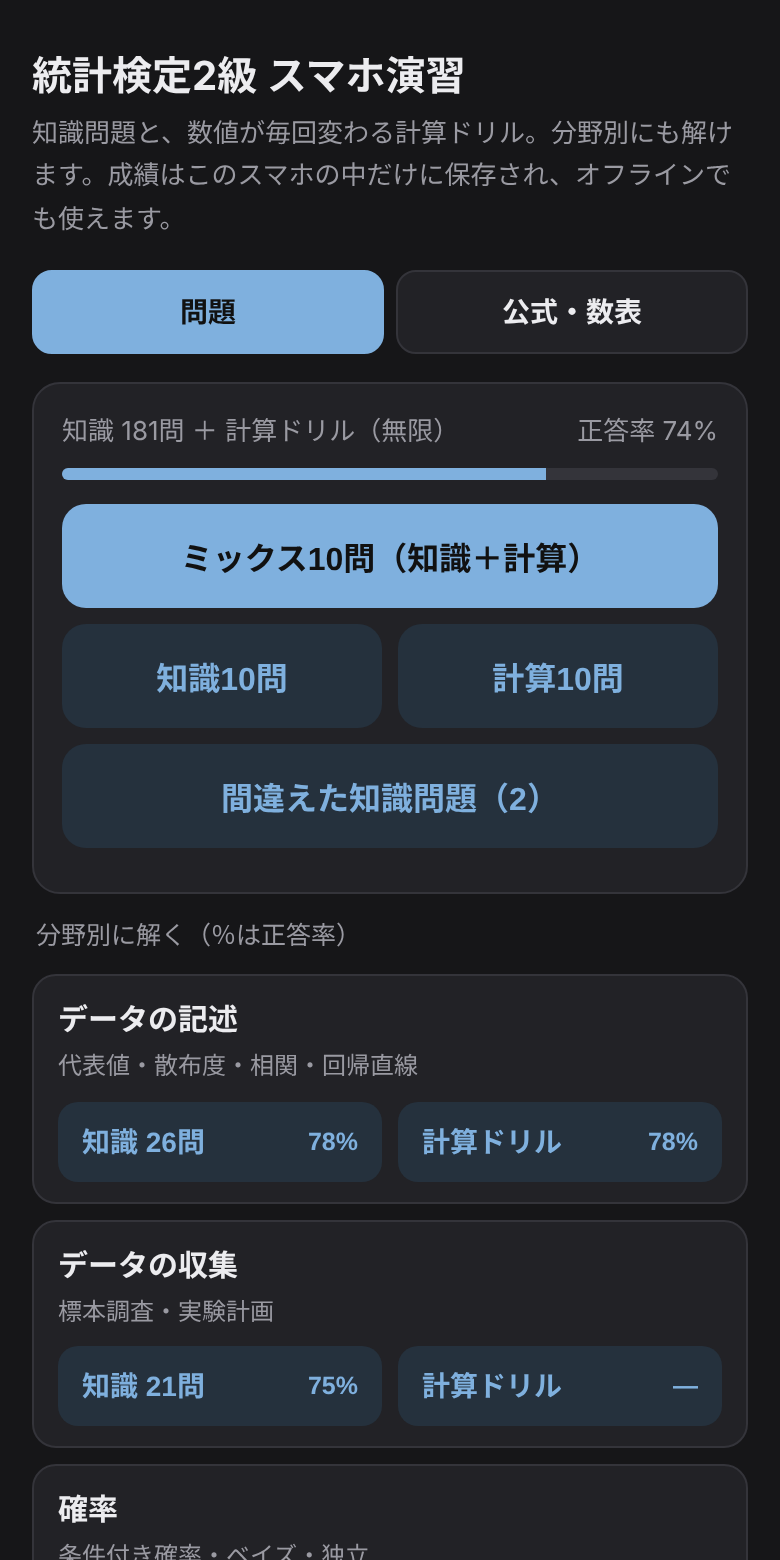
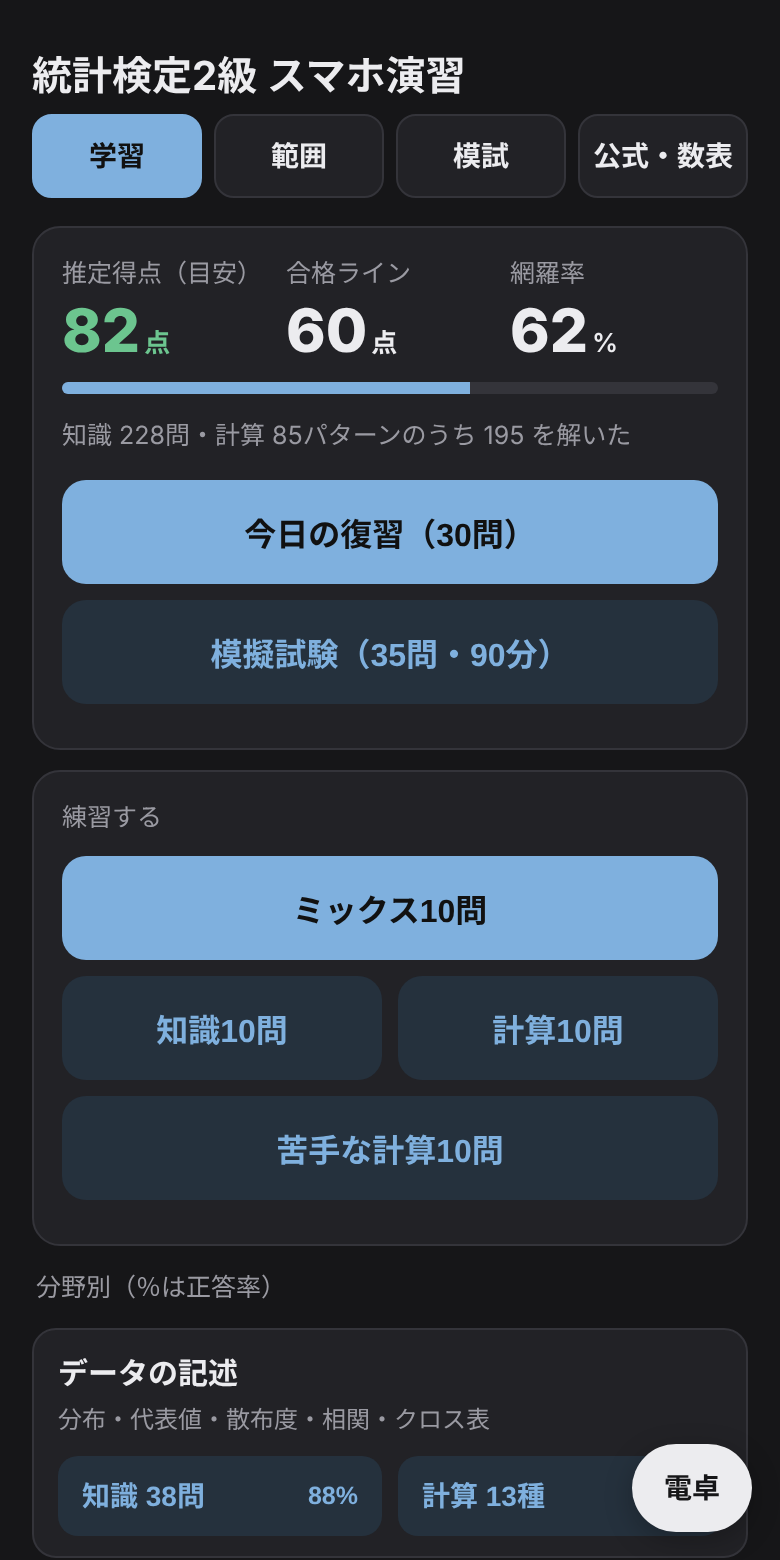
テストと README を新しい機能に合わせる

diff --git a/tests/smoke.py b/tests/smoke.py
@@ -1,4 +1,4 @@
-"""スマホ幅のブラウザーで開き、解答・オフライン起動まで通るか確かめる。
+"""スマホ幅のブラウザーで開き、練習・範囲チェック・模擬試験・数表・電卓・オフライン起動まで通るか確かめる。
 
 使い方: pip install playwright && playwright install chromium
         python3 tests/smoke.py            （CHROME_PATH で使うブラウザーを指定できる）
@@ -29,36 +29,72 @@ with sync_playwright() as p:
     page.on("pageerror", lambda e: errors.append(str(e)))
 
     page.goto(url)
-    check(page.locator(".fbox").count() == 9, "ホームに 9 分野が並ぶ")
+    check(page.locator(".fbox").count() == 9, "学習ホームに 9 分野が並ぶ")
     page.evaluate("navigator.serviceWorker.ready")
     time.sleep(1)
 
     page.click("text=知識10問")
-    page.click(".choice >> nth=0")
-    check(page.locator(".exp").count() == 1, "知識問題に答えると解説が出る")
+    page.click("#quiz .choice >> nth=0")
+    check(page.locator("#quiz .exp").count() == 1, "知識問題に答えると解説が出る")
     for _ in range(9):
-        page.click("#nx"); page.click(".choice >> nth=0")
+        page.click("#nx"); page.click("#quiz .choice >> nth=0")
     page.click("#nx")
-    check(page.locator(".score").inner_text().endswith("/ 10"), "10 問解くと結果が出る")
+    check(page.locator("#quiz .score").inner_text().endswith("/ 10"), "10 問解くと結果が出る")
+    page.click("#quiz >> text=戻る")
 
-    page.click("text=ホームへ")
-    page.click(".fbox >> nth=6 >> text=計算ドリル")
+    page.click(".fbox >> nth=6 >> .fbtn >> nth=1")
     check("仮説検定" in page.locator("#quiz .meta").inner_text(), "分野別の計算ドリルが開く")
-    page.click(".choice >> nth=1")
-    check(page.locator(".choice.ok").count() == 1, "計算ドリルで正解の選択肢が示される")
+    page.click("#quiz .choice >> nth=1")
+    check(page.locator("#quiz .choice.ok").count() == 1, "計算ドリルで正解の選択肢が示される")
 
-    page.click("text=公式・数表")
-    check("t<sub>0.025</sub>" in page.inner_html("#formula"), "公式・数表が出る")
+    page.click(".tab[data-v=topics]")
+    n_topics = page.locator(".trow").count()
+    check(n_topics == page.evaluate("TOPICS.length"), f"範囲チェックに全項目（{n_topics}）が並ぶ")
+    page.click(".trow >> nth=5")
+    check(page.locator("#topic h3", has_text="要点").count() == 1, "項目を開くと要点が出る")
+    page.click("#topic >> text=この項目を10問")
+    page.click("#quiz .choice >> nth=0")
+    check(page.locator("#quiz .exp").count() == 1, "項目別の練習で解ける")
 
+    page.click(".tab[data-v=mockhome]")
+    page.click("text=模擬試験を始める")
+    check(page.locator(".mhead").inner_text().startswith("模擬試験 1/35"), "模擬試験が 35 問で始まる")
+    check(page.locator("#mock .exp").count() == 0, "模擬試験の途中は解説を出さない")
+    for i in range(35):
+        page.click("#mock .choice >> nth=0")
+        if i < 34: page.click("text=次 →")
+    page.reload()
+    page.click(".tab[data-v=mockhome]")
+    check(page.locator("text=続きから").count() == 1, "閉じても模擬試験の続きから再開できる")
+    page.click("text=続きから")
+    page.click("text=問題の一覧・提出")
+    page.click("#msub"); page.click("#msub")
+    check(page.locator("#mock .score").count() == 1 and page.locator("details.rev").count() == 35, "提出すると得点と 35 問の見直しが出る")
+    page.click("text=模試のページへ")
+    check(page.locator(".trend i").count() == 1, "模擬試験の記録が残る")
+
+    page.click(".tab[data-v=formula]")
+    for i, name in enumerate(["正規", "t", "χ²", "F"]):
+        page.click(f".subtabs button >> nth={i+1}")
+        check(page.locator("#formula .tblwrap").count() >= 1, f"{name} 分布表が出る")
+
+    page.click(".fab")
+    for k in ["√", "2", "×", "(", "3", "+", "4", ")", "x²", "="]:
+        page.click(f'#calc [data-k="{k}"]')
+    check(page.locator("#cres").inner_text() == "= 69.29646456", "電卓で √2×(3+4)² が計算できる")
+    page.click("#calc >> text=閉じる")
+
+    page.click(".tab[data-v=home]")
     saved = page.evaluate("Object.keys(JSON.parse(localStorage.getItem('stat2_v1')).st).length")
     check(saved > 0, "成績が端末に保存される")
+    check("今日の復習（0問）" not in page.inner_text("#home"), "間違えた問題が今日の復習に入る")
 
     ctx.set_offline(True)
     server.shutdown()
     page.reload()
     check(page.locator(".fbox").count() == 9, "オフラインでも開ける")
     page.click("text=計算10問")
-    check(page.locator(".qtext").count() == 1, "オフラインでも計算ドリルが出る")
+    check(page.locator("#quiz .qtext").count() == 1, "オフラインでも計算ドリルが出る")
 
     check(not errors, "スクリプトのエラーがない" + (f": {errors}" if errors else ""))
     browser.close()

diff --git a/README.md b/README.md
@@ -2,64 +2,78 @@
 
 [![CI](https://github.com/haru-ki417/stat2-app/actions/workflows/ci.yml/badge.svg)](https://github.com/haru-ki417/stat2-app/actions/workflows/ci.yml)
 
-**統計検定2級の対策を、スマホだけで。知識問題 181 問と、数値が毎回変わる計算ドリル 55 パターンを、分野別に解けるオフライン対応の Web アプリ（PWA）。**
-ホーム画面に追加すればアプリとして起動し、電波のない場所でも使えます。成績はスマホの中だけに保存され、外には送りません。
+**統計検定2級の出題範囲を、スマホ1台で最後まで。公式の出題範囲表の 31 項目すべてに、知識問題 228 問と数値が毎回変わる計算ドリル 85 パターンをひも付け、本番と同じ 35問・90分の模擬試験、間違えた問題の復習、要点ノート、電卓、数表までそろえたオフライン対応の Web アプリ（PWA）。**
 
 [**アプリを開く**](https://haru-ki417.github.io/stat2-app/) — iPhone は Safari の共有ボタン →「ホーム画面に追加」で、アプリとして使えます。
 
 <p>
-<img src="docs/images/home-light.png" width="24%" alt="ホーム：分野ごとの正答率">
-<img src="docs/images/knowledge.png" width="24%" alt="知識問題：答えるとすぐ解説">
-<img src="docs/images/drill.png" width="24%" alt="計算ドリル：数値は毎回変わる">
-<img src="docs/images/formula.png" width="24%" alt="公式・数表">
+<img src="docs/images/home-light.png" width="24%" alt="学習：推定得点・網羅率・今日の復習">
+<img src="docs/images/topics.png" width="24%" alt="範囲チェック：項目ごとの進み具合">
+<img src="docs/images/mock.png" width="24%" alt="模擬試験：35問・90分">
+<img src="docs/images/mock-result.png" width="24%" alt="模擬試験の結果と分野別の正解数">
 </p>
 
-左から、ホーム（分野ごとの正答率）・知識問題の解説・計算ドリル・公式と数表。
+左から、学習（推定得点・網羅率・今日の復習）・範囲チェック・模擬試験・模擬試験の結果。
 
-> 個人の学習用に作ったアプリです。問題はすべてオリジナルで、日本統計学会・統計質保証推進協会とは関係ありません。本番の形式（グラフや出力表を読む長い設問）の練習には、公式問題集と組み合わせて使ってください。
+> 個人の学習用に作ったアプリです。問題はすべてオリジナルで、日本統計学会・統計質保証推進協会とは関係ありません。合格を保証するものではないので、本番の過去問（公式問題集）と組み合わせて使ってください。
 
 ## できること
 
 | | |
 |---|---|
-| **知識問題** | 181 問。用語・解釈・使い分け（p 値の意味、抽出法、過誤と検出力、回帰出力の読み方など）。答えるとすぐ解説が出る |
-| **計算ドリル** | 55 パターン。数値を毎回ランダムに変えて出題するので、何度でも解ける。答えはアプリが計算する |
-| **分野別・ミックス** | 9 分野それぞれで「知識」「計算」を選べる。全体からのミックス 10 問、知識だけ、計算だけも |
-| **復習** | 間違えた知識問題を自動で記録し、正解するまで「間違えた問題」に残す |
-| **成績** | 分野ごと・知識と計算ごとの正答率をホームに表示 |
-| **公式・数表** | 主な分布の期待値と分散、推定・検定の公式、標準正規分布・t 分布の値、e⁻ˣ の表 |
-| **オフライン** | 一度開けば、機内モードでも起動して解ける |
-| **ダークモード** | スマホの設定に合わせて切り替わる |
+| **出題範囲チェック** | 公式の出題範囲表の小項目を 31 項目に分け、項目ごとに問題数・解いた数・正答率と「未着手／要復習／途中／仕上がり」を表示。抜けている項目がひと目で分かる |
+| **要点ノート** | 項目ごとに押さえる公式と考え方を数行にまとめ、そのまま「この項目を10問」で練習できる |
+| **模擬試験** | 本番と同じ 35問・90分。分野の配分は本番の傾向に合わせ、知識と計算（グラフ・ソフトの出力の読み取りを含む）を混ぜる。解答中は正誤を出さず、見直し印・問題一覧・残り時間つき。閉じても続きから再開でき、終わると得点・合否ライン・分野別の正解数・全問の解説を表示 |
+| **今日の復習** | 間違えた知識問題は当日に、正解した問題は 1・3・7・14・30 日後にもう一度出す（間隔反復） |
+| **推定得点** | 分野ごとの直近の正答率を、模擬試験の配分で重み付けした目安の点数。合格ライン 60 点と並べて表示 |
+| **知識問題** | 228 問。用語・解釈・使い分け。答えるとすぐ解説が出る。まだ解いていない問題・正答率の低い問題から先に出す |
+| **計算ドリル** | 85 パターン。数値を毎回ランダムに変えて出題。答えはアプリが計算する。散布図・箱ひげ図・ヒストグラム・残差プロット・コレログラムを読む問題、回帰分析や分散分析の出力表を読む問題も含む |
+| **苦手な計算** | 正答率の低いパターンほど出やすくした 10 問 |
+| **数表** | 標準正規分布（z = 0.00〜3.09）・t 分布・カイ二乗分布・F 分布（5%・2.5%）の表と、公式集 |
+| **電卓** | 右下のボタンからいつでも。四則・かっこ・√・累乗・直前の答え（Ans） |
+| **オフライン** | 一度開けば、機内モードでも起動して解ける。成績はスマホの中だけに保存し、外には送らない |
 
+<p>
+<img src="docs/images/topic.png" width="24%" alt="項目の要点と練習">
+<img src="docs/images/output.png" width="24%" alt="回帰分析の出力を読む問題">
+<img src="docs/images/figure.png" width="24%" alt="散布図を読む問題">
+<img src="docs/images/tables.png" width="24%" alt="標準正規分布表">
+</p>
+<p>
+<img src="docs/images/calc.png" width="24%" alt="電卓">
 <img src="docs/images/home-dark.png" width="24%" alt="ダークモード">
+</p>
 
-## 分野と問題数
+## 出題範囲と問題数
 
-| 分野 | 知識問題 | 計算ドリル | 計算ドリルの例 |
-|---|---:|---:|---|
-| データの記述 | 26 | 8 | 標準偏差・中央値・相関係数・回帰直線の予測値・偏差値・外れ値の境界・幾何平均・全体平均 |
-| データの収集 | 21 | 2 | 層化抽出の比例配分・系統抽出の番号 |
-| 確率 | 14 | 6 | サイコロの和・和事象・「少なくとも 1 回」・ベイズの定理（陽性的中率）・非復元抽出・条件付き確率 |
-| 確率分布 | 23 | 10 | 二項分布・ポアソン分布・aX+b・V[X±Y]・正規分布の確率・指数分布・一様分布・幾何分布 |
-| 標本分布 | 16 | 4 | 標準誤差・標本平均の確率・和の分散・各検定の自由度 |
-| 推定 | 17 | 6 | 平均の信頼区間（z・t）・比率の信頼区間・必要な標本サイズ・区間の幅 |
-| 仮説検定 | 27 | 8 | z 値・棄却の判断・比率の検定・対応のある t・期待度数・カイ二乗統計量・2 標本の z |
-| 回帰分析 | 20 | 6 | t 値・決定係数・残差・自由度調整済み R²・重回帰の予測値 |
-| 分散分析・時系列 | 17 | 5 | 自由度・F 値・群内平均平方・移動平均・ラスパイレス指数 |
-| **合計** | **181** | **55** | |
+公式の出題範囲表（2級）の小項目に合わせた 31 項目です。
+
+| 分野 | 項目 | 知識 | 計算 | 模試 |
+|---|---|---:|---:|---:|
+| データの記述 | 身近な統計・データの分布の記述・中心傾向・散らばり・中心と散らばりの活用・散布図と相関・カテゴリカルデータ | 38 | 13 | 6 |
+| データの収集 | 観察研究と実験研究・標本調査と無作為抽出・実験の計画 | 25 | 2 | 2 |
+| 確率 | 確率の基本法則・ベイズの定理 | 15 | 7 | 3 |
+| 確率分布 | 確率変数と期待値・分散・離散型の分布・連続型の分布 | 29 | 14 | 5 |
+| 標本分布 | 標本分布・t／χ²／F 分布 | 19 | 5 | 3 |
+| 推定 | 点推定・母平均の区間推定・母比率の区間推定・母分散と平均の差の区間推定・標本サイズ | 19 | 8 | 4 |
+| 仮説検定 | 検定の考え方・1標本の検定・2標本の検定・カイ二乗検定 | 31 | 13 | 6 |
+| 回帰分析 | 単回帰と予測・重回帰分析・統計ソフトの出力を読む | 30 | 12 | 4 |
+| 分散分析・時系列 | 分散分析と実験計画・時系列データの処理 | 22 | 11 | 2 |
+| **合計** | **31 項目** | **228** | **85** | **35** |
 
 ## 計算ドリルのしくみ
 
-問題を作る関数が、数値を選んでから答えを計算します（[`js/drills.js`](js/drills.js)）。手で作った問題とちがい、数値の書き間違いが起きません。
+問題を作る関数が数値を選んでから答えを計算します（[`js/drills.js`](js/drills.js)）。手で作った問題と違い、数値の書き間違いが起きません。図は SVG でその場で描き、回帰の出力表の p 値は t 分布から計算します。
 
 まちがいの選択肢は、試験でやりがちな誤りから作っています。
 
-- 標準誤差を √n で割り忘れる（σ をそのまま使う）
+- 標準誤差を √n で割り忘れる、標準誤差どうしを足してしまう
 - 両側 5% の 1.96 と片側の 1.645、1% の 2.576 を取り違える
-- 不偏分散（n−1）と標本分散（n）を取り違える
-- 成長率を算術平均してしまう、加重平均で人数を無視する
-- 非復元抽出なのに玉を戻した計算をする
-- V[X−Y] で分散を引いてしまう、共分散の 2 倍を忘れる
+- 不偏分散（n−1）と標本分散（n）、母分散の区間で χ² の上側と下側を取り違える
+- 成長率を算術平均する、加重平均で人数を無視する、クロス表で割る向きを間違える
+- 非復元抽出なのに二項分布で計算する、連続修正を忘れる
+- V[X−Y] で分散を引く、共分散の 2 倍を忘れる
+- 等分散 t 検定でプールした分散を使わない、F 値の自由度を入れ替える
 
 解説には計算の途中を数値入りで載せているので、どこで間違えたかが分かります。
 
@@ -76,11 +90,13 @@
 
 | ファイル | 内容 |
 |---|---|
-| [`index.html`](index.html) | 画面の骨組み |
+| [`index.html`](index.html) | 画面の骨組みと電卓 |
 | [`css/style.css`](css/style.css) | スマホ向けの見た目。ライト・ダーク、ノッチの余白（safe-area）に対応 |
-| [`js/questions.js`](js/questions.js) | 分野と知識問題のデータ |
-| [`js/drills.js`](js/drills.js) | 計算ドリルの問題を作る関数と、計算の部品（正規分布の累積分布関数・組合せ・分数など） |
-| [`js/app.js`](js/app.js) | 出題・採点・成績の保存・画面の切り替え・公式と数表 |
+| [`js/tables.js`](js/tables.js) | 正規・t・カイ二乗・F 分布の数表（SciPy で計算した値） |
+| [`js/topics.js`](js/topics.js) | 分野・出題範囲の 31 項目・要点ノート・模擬試験の配分 |
+| [`js/questions.js`](js/questions.js) | 知識問題のデータ |
+| [`js/drills.js`](js/drills.js) | 計算ドリルの問題を作る関数と、計算の部品（正規分布の累積分布関数・t 分布の p 値・組合せなど） |
+| [`js/app.js`](js/app.js) | 練習・範囲チェック・模擬試験・復習の予定・推定得点・数表・電卓・成績の保存 |
 | [`sw.js`](sw.js) | オフライン用のサービスワーカー |
 | [`manifest.webmanifest`](manifest.webmanifest) | ホーム画面に追加したときの名前・アイコン・色 |
 
@@ -91,7 +107,7 @@
 ## テスト
 
 ```sh
-node tests/check.mjs          # 問題データと計算ドリル（1 パターン 2000 回）
+node tests/check.mjs          # 問題データ・数表・計算ドリル（1 パターン 2000 回）
 node tests/check.mjs 20000    # 回数を増やす
 pip install playwright && python -m playwright install chromium
 python3 tests/smoke.py        # スマホ幅のブラウザーで動かす
@@ -99,20 +115,20 @@ python3 tests/smoke.py        # スマホ幅のブラウザーで動かす
 
 | テスト | 確かめること |
 |---|---|
-| [`tests/check.mjs`](tests/check.mjs) | 知識問題の形（分野・選択肢の重複・正解の番号・同じ問題文）／正規分布の累積分布関数・組合せ・分数・t 分布の値が正しいか／全パターンを乱数の種を固定して生成し、選択肢が 4 つとも別の値か、NaN などが出ないか／オフライン用に保存するファイルがそろっているか |
-| [`tests/smoke.py`](tests/smoke.py) | スマホ幅のブラウザーで、知識問題を 10 問解いて結果が出る・分野別の計算ドリルが開く・公式が出る・成績が保存される・通信を切っても起動して解ける |
+| [`tests/check.mjs`](tests/check.mjs) | 31 項目それぞれに要点と 3 問以上の問題があるか／模擬試験の配分が 35 問で、各分野に足りる問題があるか／知識問題の形（項目・選択肢の重複・正解の番号・同じ問題文）／正規分布の累積分布関数・t 分布の p 値・数表の値が正しいか／全パターンを乱数の種を固定して生成し、選択肢が 4 つとも別の値か、NaN などが出ないか／オフライン用に保存するファイルがそろっているか |
+| [`tests/smoke.py`](tests/smoke.py) | スマホ幅のブラウザーで、知識問題を 10 問解く・分野別の計算ドリル・範囲チェックと要点・模擬試験を 35 問解いて途中で閉じても再開し提出・数表 4 種・電卓・復習の予定・通信を切っても起動して解ける |
 
 push のたびに GitHub Actions で両方を回します（計算ドリルは 1 パターン 5000 回）。
 
 ## 問題を追加する
 
-知識問題は [`js/questions.js`](js/questions.js) の `Q` に 1 行足します。正解を先頭に書き、`a:0` にします（表示のときに並べ替わります）。
+知識問題は [`js/questions.js`](js/questions.js) の `Q` の**最後に**足します（成績は並び順で記録しているので、途中に入れたり消したりしない）。`t` は [`js/topics.js`](js/topics.js) の項目、正解を先頭に書いて `a:0` にします（表示のときに並べ替わります）。
 
 ```js
-{f:"test",q:"問題文",c:["正解","誤答1","誤答2","誤答3"],a:0,e:"解説"},
+{t:"h_two",q:"問題文",c:["正解","誤答1","誤答2","誤答3"],a:0,e:"解説"},
 ```
 
-計算ドリルは [`js/drills.js`](js/drills.js) の `GEN[分野]` に関数を足します。`mk(分野, 問題文, 正解の値, [よくある誤答の値], 解説, 小数の桁, 単位)` が選択肢をそろえます。
+計算ドリルは [`js/drills.js`](js/drills.js) で `add(項目, 名前, 関数)` を足します。`mk(分野, 問題文, 正解の値, [よくある誤答の値], 解説, 小数の桁, 単位)` が選択肢をそろえます。
 
 足したら `node tests/check.mjs` を通してから push してください。Pages に反映されたあと、スマホのアプリは次に開いたときに新しい版になります。
 
